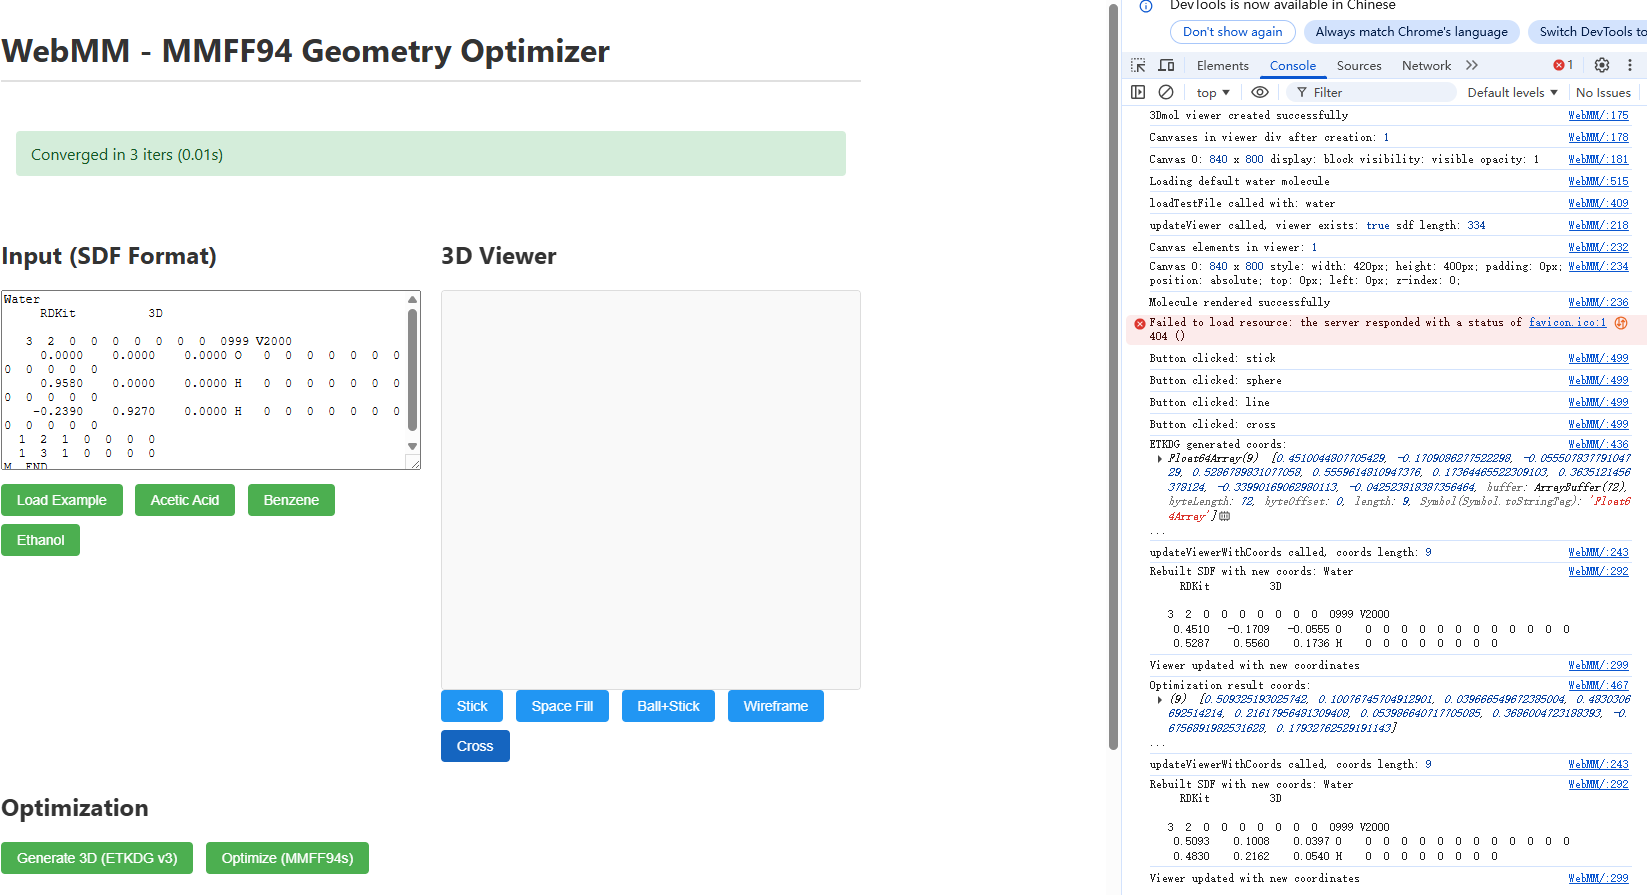
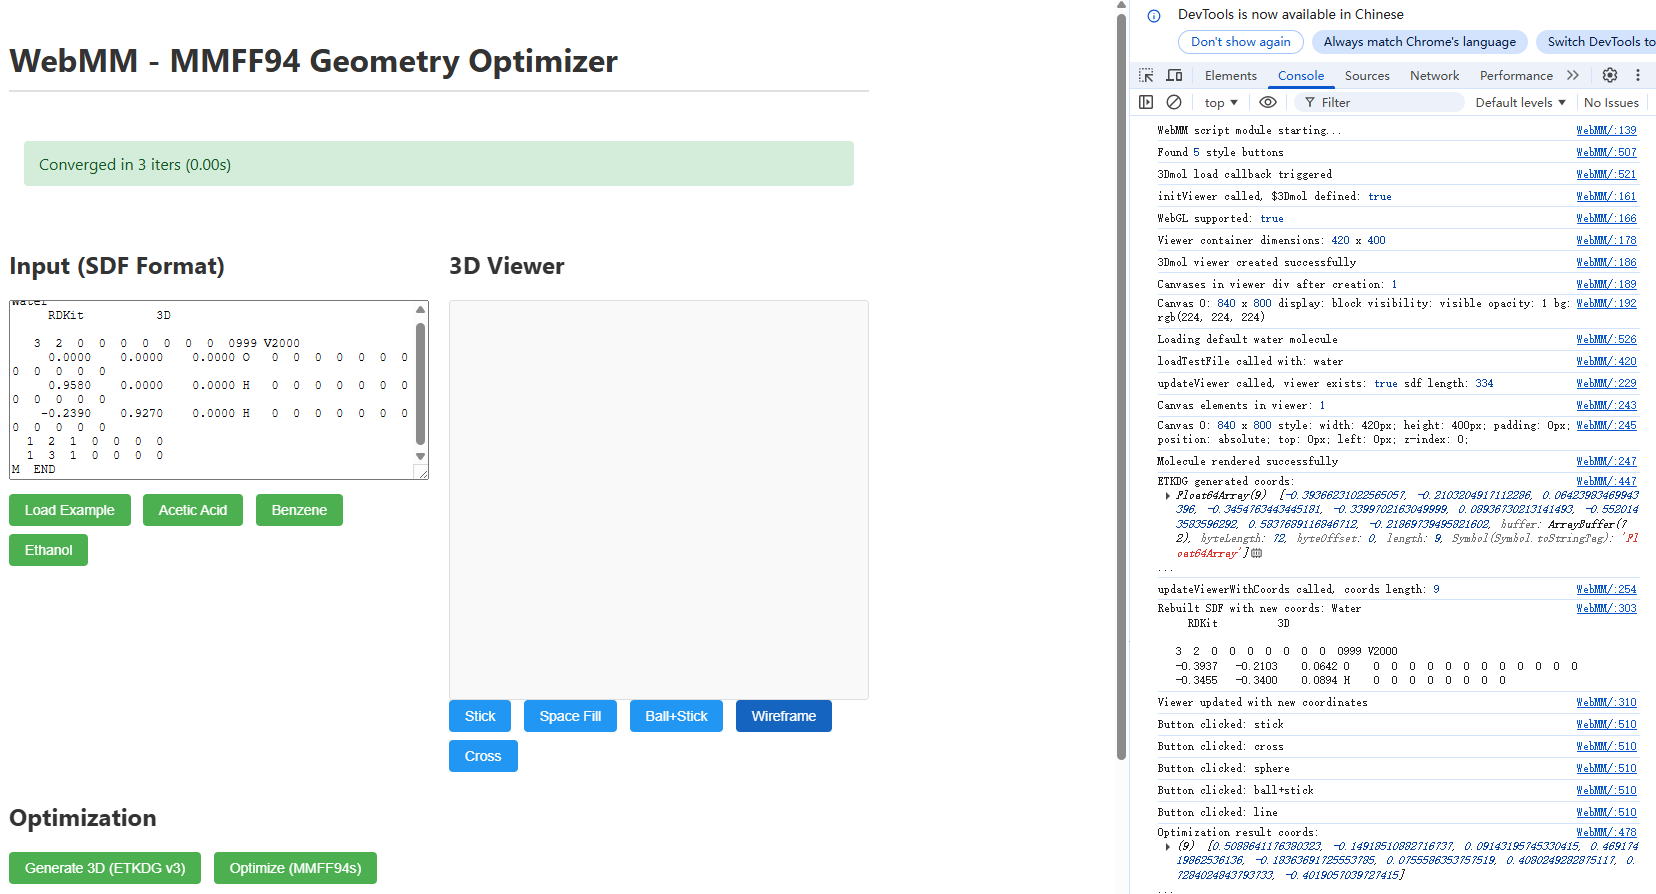
debug: add test sphere and force canvas visibility
- Add a red test sphere immediately after viewer creation
- Force render to test if viewer works
- Manually set canvas display/visibility/opacity styles
- This determines if issue is viewer or molecule data

diff --git a/site/index.html b/site/index.html
@@ -184,12 +184,20 @@
             try {
                 viewer3Dmol = $3Dmol.createViewer(element, config);
                 console.log('3Dmol viewer created successfully');
+                // Force immediate render with a simple shape to test
+                viewer3Dmol.addSphere({x:0, y:0, z:0, radius:1, color:'red'});
+                viewer3Dmol.zoomTo();
+                viewer3Dmol.render();
                 // Check what was added to DOM
                 const canvases = element.querySelectorAll('canvas');
                 console.log('Canvases in viewer div after creation:', canvases.length);
                 canvases.forEach((c, i) => {
                     const style = window.getComputedStyle(c);
                     console.log(`Canvas ${i}:`, c.width, 'x', c.height, 'display:', style.display, 'visibility:', style.visibility, 'opacity:', style.opacity, 'bg:', style.backgroundColor);
+                    // Force the canvas to be visible
+                    c.style.display = 'block';
+                    c.style.visibility = 'visible';
+                    c.style.opacity = '1';
                 });
                 log('✓ 3D viewer initialized');
             } catch (e) {
